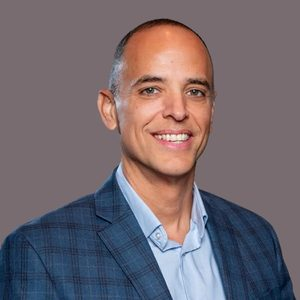
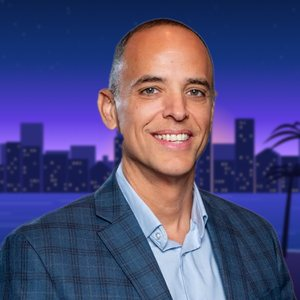
Profile page: wide layout with site header/hero, city-scene portrait, contact cards (preview)
Claude-Session: https://claude.ai/code/session_01VCMpRRY5PuCF4fBCYQtmum

diff --git a/axd-media/assets/css/theme.css b/axd-media/assets/css/theme.css
@@ -1053,129 +1053,90 @@ main.wp-block-group { margin-top: 0 !important; }
 /* Top-level dropdown labels without a link (Solutions, Our Work) */
 .axd-nav .has-child > a.wp-block-navigation-item__content:not([href]) { cursor: default; }
 
-/* Profile card (digital business card) ---------------------------------- */
+/* Profile page (digital business card) -------------------------------- */
 .axd-profile-main { margin: 0; }
-.axd-profile {
-	min-height: 100vh;
-	min-height: 100svh;
-	padding: 120px 16px 32px;
-	background: #081A3B url(../images/ftl-bg.webp) 50% 0 / cover no-repeat fixed;
-	box-sizing: border-box;
-}
-@media (max-width: 900px) {
-	.axd-profile {
-		background: linear-gradient(180deg, rgba(18, 15, 51, 0) 300px, #120F33 360px), url(../images/ftl-bg.webp) 50% 0 / auto 360px no-repeat, #120F33;
-		padding-top: 300px;
-	}
-}
-.axd-profile__card {
-	position: relative;
-	max-width: 460px;
-	margin: 0 auto;
-	padding: 92px 28px 30px;
-	border-radius: 28px;
-	background: rgba(255, 255, 255, .97);
-	box-shadow: 0 40px 80px -30px rgba(8, 26, 59, .65), 0 0 0 1px rgba(255, 255, 255, .6);
-	text-align: center;
-}
-.axd-profile__card > * { margin-block: 0; }
-.axd-profile__photo { position: absolute; left: 50%; top: -76px; transform: translateX(-50%); margin: 0 !important; }
-.axd-profile__photo img {
-	width: 152px;
-	height: 152px;
-	border-radius: 50%;
-	object-fit: cover;
-	border: 5px solid #fff;
-	box-shadow: 0 18px 36px -12px rgba(8, 26, 59, .55), 0 0 0 3px rgba(133, 37, 220, .35);
-}
-.axd-profile__name { font-size: clamp(30px, 8vw, 38px); line-height: 1.1; margin: 0 !important; }
-.axd-profile__org {
-	margin-top: 6px !important;
-	font: 700 17px/1.3 var(--axd-jakarta);
-	background: linear-gradient(90deg, #0A5BEF, #8525DC);
-	-webkit-background-clip: text;
-	background-clip: text;
-	color: transparent;
-}
-.axd-profile__tag { margin-top: 10px !important; font: 700 11px/1.4 var(--axd-jakarta); letter-spacing: .16em; text-transform: uppercase; color: var(--axd-muted); }
-.axd-profile__primary { margin-top: 24px !important; }
-.axd-profile__primary .wp-block-button,
-.axd-profile__primary .wp-block-button__link { width: 100%; justify-content: center; }
+.axd-hero--profile h1 { font-size: clamp(44px, 6vw, 72px); }
+.axd-profile__tag { margin-top: 10px !important; font: 800 13px/1.4 var(--axd-jakarta); letter-spacing: .16em; text-transform: uppercase; color: var(--axd-violet); }
+.axd-hero--profile .axd-lead { max-width: 520px; }
 .axd-profile__save .wp-block-button__link { gap: 10px; }
 .axd-profile__save .wp-block-button__link::before {
 	content: "";
 	width: 20px;
 	height: 20px;
+	flex: none;
 	background: url(../icons/user-plus-white.svg) center / contain no-repeat;
 }
-.axd-profile__quick { margin-top: 12px !important; display: grid !important; grid-template-columns: repeat(3, 1fr); gap: 10px !important; }
-.axd-profile__quick .wp-block-button { width: auto; margin: 0; }
+.axd-hero .axd-profile__quick { margin-top: 14px !important; gap: 10px; }
 .axd-profile__quick .wp-block-button__link {
-	width: 100%;
-	box-sizing: border-box;
-	display: flex;
-	flex-direction: column;
+	display: inline-flex;
 	align-items: center;
-	gap: 6px;
-	padding: 14px 6px;
-	border-radius: 16px;
-	background: var(--axd-off, #F4F7FE);
-	color: var(--axd-ink);
-	font-size: 13px;
-	box-shadow: none;
+	gap: 8px;
+	padding: 10px 16px;
+	border-radius: 999px;
+	background: rgba(255, 255, 255, .75);
 	border: 1px solid var(--axd-line);
+	color: var(--axd-ink);
+	font-size: 14px;
+	box-shadow: none;
 }
 .axd-profile__quick .wp-block-button__link:hover { background: #fff; color: var(--axd-blue); border-color: var(--axd-blue); }
-.axd-profile__quick .wp-block-button__link::before { content: ""; width: 22px; height: 22px; background: center / contain no-repeat; }
+.axd-profile__quick .wp-block-button__link::before { content: ""; width: 18px; height: 18px; flex: none; background: center / contain no-repeat; }
 .axd-profile__quick .is-call .wp-block-button__link::before { background-image: url(../icons/phone-blue.svg); }
 .axd-profile__quick .is-email .wp-block-button__link::before { background-image: url(../icons/mail-blue.svg); }
 .axd-profile__quick .is-web .wp-block-button__link::before { background-image: url(../icons/globe-blue.svg); }
+.axd-hero__img.is-portrait img {
+	width: 100%;
+	max-width: 440px;
+	max-height: none;
+	aspect-ratio: 550 / 580;
+	object-fit: cover;
+	margin-inline: auto;
+	border-radius: 28px;
+	border: 6px solid rgba(255, 255, 255, .85);
+	box-shadow: 0 34px 60px -26px rgba(8, 26, 59, .6);
+	filter: none;
+}
 
-.axd-profile__contacts { margin-top: 24px !important; text-align: left; border-top: 1px solid var(--axd-line); }
+.axd-section.is-tight-pad { padding-block: 56px; }
+.axd-profile__contacts { display: grid; grid-template-columns: repeat(4, minmax(0, 1fr)); gap: 18px; }
 .axd-profile__contacts > * { margin: 0 !important; }
 .axd-pc a {
 	display: grid;
-	grid-template-columns: 40px 1fr;
+	grid-template-columns: 48px minmax(0, 1fr);
 	column-gap: 14px;
 	align-items: center;
-	padding: 14px 4px;
-	border-bottom: 1px solid var(--axd-line);
+	height: 100%;
+	box-sizing: border-box;
+	padding: 20px;
+	border-radius: 20px;
+	background: #fff;
+	border: 1px solid var(--axd-line);
+	box-shadow: var(--axd-shadow);
 	color: var(--axd-ink);
-	font: 700 15px/1.3 var(--axd-jakarta);
+	font: 700 16px/1.3 var(--axd-jakarta);
 	text-decoration: none;
+	overflow-wrap: anywhere;
+	transition: transform .2s ease, border-color .2s ease;
 }
 .axd-pc a::before {
 	content: "";
 	grid-row: span 2;
-	width: 40px;
-	height: 40px;
-	border-radius: 12px;
-	background: #EEF3FF center / 20px no-repeat;
+	width: 48px;
+	height: 48px;
+	border-radius: 14px;
+	background: #EEF3FF center / 22px no-repeat;
 }
 .axd-pc.is-phone a::before { background-image: url(../icons/phone-blue.svg); }
 .axd-pc.is-email a::before { background-image: url(../icons/mail-blue.svg); }
 .axd-pc.is-web a::before { background-image: url(../icons/globe-blue.svg); }
 .axd-pc.is-support a::before { background-color: #F3ECFF; background-image: url(../icons/headset-purple.svg); }
-.axd-pc a:hover { color: var(--axd-blue); }
-.axd-pc__label { display: block; font: 600 11px/1.4 var(--axd-jakarta); letter-spacing: .12em; text-transform: uppercase; color: var(--axd-muted); }
-
-.axd-profile__eyebrow { margin-top: 26px !important; font: 800 12px/1 var(--axd-jakarta); letter-spacing: .16em; text-transform: uppercase; color: var(--axd-violet, #6A2EE8); }
-.axd-profile__services { list-style: none; padding: 0; margin: 14px 0 0 !important; display: flex; flex-wrap: wrap; justify-content: center; gap: 8px; }
-.axd-profile__services li { margin: 0; }
-.axd-profile__services a {
-	display: inline-block;
-	padding: 9px 14px;
-	border-radius: 999px;
-	background: #F4F7FE;
-	border: 1px solid var(--axd-line);
-	color: var(--axd-ink);
-	font: 600 13px/1.2 var(--axd-jakarta);
-	text-decoration: none;
+.axd-pc a:hover { transform: translateY(-3px); border-color: var(--axd-blue); color: var(--axd-blue); }
+.axd-pc__label { display: block; font: 700 11px/1.4 var(--axd-jakarta); letter-spacing: .12em; text-transform: uppercase; color: var(--axd-muted); }
+@media (max-width: 1100px) { .axd-profile__contacts { grid-template-columns: repeat(2, minmax(0, 1fr)); } }
+@media (max-width: 600px) {
+	.axd-profile__contacts { grid-template-columns: 1fr; gap: 12px; }
+	.axd-section.is-tight-pad { padding-block: 36px; }
+	.axd-hero__img.is-portrait img { max-width: 340px; }
+	.axd-hero .axd-profile__quick { display: grid; grid-template-columns: repeat(3, 1fr); }
+	.axd-profile__quick .wp-block-button__link { width: 100%; justify-content: center; padding: 10px 6px; }
 }
-.axd-profile__services a:hover { border-color: var(--axd-blue); color: var(--axd-blue); }
-.axd-profile__cta { margin-top: 24px !important; flex-direction: column; gap: 10px !important; }
-.axd-profile__cta .wp-block-button,
-.axd-profile__cta .wp-block-button__link { width: 100%; justify-content: center; box-sizing: border-box; }
-.axd-profile__foot { margin: 22px 0 0 !important; text-align: center; font: 600 13px/1.4 var(--axd-jakarta); }
-.axd-profile__foot a { color: #fff; text-decoration: none; opacity: .85; }
-.axd-profile__foot a:hover { opacity: 1; }

diff --git a/axd-media/templates/page-profile.html b/axd-media/templates/page-profile.html
@@ -1,3 +1,7 @@
+<!-- wp:template-part {"slug":"header","tagName":"header"} /-->
+
 <!-- wp:group {"tagName":"main","className":"axd-profile-main","layout":{"type":"default"}} -->
 <main class="wp-block-group axd-profile-main"><!-- wp:post-content {"layout":{"type":"default"}} /--></main>
 <!-- /wp:group -->
+
+<!-- wp:template-part {"slug":"footer","tagName":"footer"} /-->

diff --git a/axd-media/patterns/page-profile.php b/axd-media/patterns/page-profile.php
@@ -5,27 +5,26 @@
  * Categories: axd-pages
  * Post Types: page
  * Block Types: core/post-content
- * Viewport Width: 480
- * Description: Digital business card for a team member (use with the Profile Card template).
+ * Viewport Width: 1400
+ * Description: Digital business card page for a team member (use with the Profile Card template).
  *
  * @package AXD_Media
  */
 
 defined( 'ABSPATH' ) || exit;
 
-$axd_ico = static function ( $name, $color = 'blue' ) {
-	return esc_url( get_theme_file_uri( 'assets/icons/' . $name . '-' . $color . '.svg' ) );
-};
-
-$axd_card  = axd_b_img( axd_img( 'profile-alex-dueso.webp' ), 'Alex Dueso', 'axd-profile__photo' );
-$axd_card .= axd_b_h( 1, 'Alex Dueso', 'axd-profile__name' );
-$axd_card .= axd_b_p( 'AXD Media', 'axd-profile__org' );
-$axd_card .= axd_b_p( 'Technology Solutions for Business', 'axd-profile__tag' );
-$axd_card .= axd_b_buttons(
-	array( array( 'Save Contact', '/team/alex-dueso/?vcard=1', 'axd-profile__save' ) ),
-	'axd-profile__primary'
+// Hero: name, contact actions, photo.
+$axd_left  = axd_b_p( 'AXD Media', 'axd-eyebrow is-dark has-rule' );
+$axd_left .= axd_b_h( 1, 'Alex <span class="axd-grad">Dueso.</span>' );
+$axd_left .= axd_b_p( 'Technology Solutions for Business', 'axd-profile__tag' );
+$axd_left .= axd_b_p( 'Custom solutions, data insights, modern websites, and reliable IT support to help your organization work smarter, serve better, and grow with confidence.', 'axd-lead' );
+$axd_left .= axd_b_buttons(
+	array(
+		array( 'Save Contact', '/team/alex-dueso/?vcard=1', 'axd-profile__save' ),
+		array( 'Schedule a Consultation', '/contact/', 'is-style-outline' ),
+	)
 );
-$axd_card .= axd_b_buttons(
+$axd_left .= axd_b_buttons(
 	array(
 		array( 'Call', 'tel:+13059293239', 'is-call' ),
 		array( 'Email', 'mailto:info@axdmedia.com', 'is-email' ),
@@ -33,32 +32,34 @@ $axd_card .= axd_b_buttons(
 	),
 	'axd-profile__quick'
 );
+$axd_right = axd_b_img( axd_img( 'profile-alex-dueso.webp' ), 'Alex Dueso', 'axd-hero__img is-portrait' );
+echo axd_b_group( axd_b_group( axd_b_cols( array( $axd_left, $axd_right ) ), 'axd-hero axd-hero--profile', 'div', 'constrained' ), 'axd-hero-shell' ); // phpcs:ignore WordPress.Security.EscapeOutput.OutputNotEscaped
 
+// Contact cards.
 $axd_rows  = axd_b_p( '<a href="tel:+13059293239"><span class="axd-pc__label">Phone</span>(305) 929-3239</a>', 'axd-pc is-phone' );
 $axd_rows .= axd_b_p( '<a href="mailto:info@axdmedia.com"><span class="axd-pc__label">Email</span>info@axdmedia.com</a>', 'axd-pc is-email' );
 $axd_rows .= axd_b_p( '<a href="https://axdmedia.com/"><span class="axd-pc__label">Website</span>axdmedia.com</a>', 'axd-pc is-web' );
 $axd_rows .= axd_b_p( '<a href="/support/"><span class="axd-pc__label">Client Support</span>Open a support case</a>', 'axd-pc is-support' );
-$axd_card .= axd_b_group( $axd_rows, 'axd-profile__contacts' );
+echo axd_s_section( axd_b_group( $axd_rows, 'axd-profile__contacts' ), 'is-tight-pad' ); // phpcs:ignore WordPress.Security.EscapeOutput.OutputNotEscaped
 
-$axd_card .= axd_b_p( 'How I Can Help', 'axd-profile__eyebrow' );
-$axd_card .= axd_b_list(
-	array(
-		'<a href="/data-analytics-dashboards/">Data Analytics &amp; Dashboards</a>',
-		'<a href="/custom-applications-ai/">Custom Applications &amp; AI</a>',
-		'<a href="/website-development/">Website Development</a>',
-		'<a href="/it-support-consulting/">IT Support &amp; Consulting</a>',
-	),
-	'axd-profile__services'
+// How I can help: same solution cards as the home page.
+$axd_cards = array(
+	array( 'card-da.webp', 'Data Analytics &amp; Dashboards', 'Turn your data into clear, actionable insights.', '/data-analytics-dashboards/' ),
+	array( 'card-apps.webp', 'Custom Applications &amp; AI', 'Build secure, effective tools that automate work and improve results.', '/custom-applications-ai/' ),
+	array( 'card-web.webp', 'Website Development', 'Modern, responsive websites that engage and inform.', '/website-development/' ),
+	array( 'card-it.webp', 'IT Support &amp; Consulting', 'Reliable IT support and strategic guidance to keep you running smoothly.', '/it-support-consulting/' ),
 );
-$axd_card .= axd_b_buttons(
-	array(
-		array( 'Schedule a Consultation', '/contact/', 'has-arrow' ),
-		array( 'Open Support Case', '/support/', 'is-style-outline' ),
-	),
-	'axd-profile__cta'
+$axd_grid = '';
+foreach ( $axd_cards as $axd_c ) {
+	$axd_body  = axd_b_h( 3, '<a href="' . esc_url( $axd_c[3] ) . '">' . $axd_c[1] . '</a>' );
+	$axd_body .= axd_b_p( esc_html( $axd_c[2] ) );
+	$axd_body .= axd_b_p( '', 'axd-go' );
+	$axd_card  = axd_b_img( axd_img( $axd_c[0] ), '', 'axd-card__img' );
+	$axd_card .= axd_b_group( $axd_body, 'axd-card__body' );
+	$axd_grid .= axd_b_group( $axd_card, 'axd-card' );
+}
+echo axd_s_section( // phpcs:ignore WordPress.Security.EscapeOutput.OutputNotEscaped
+	axd_s_head( 'How I Can Help', 'Technology That Works <span class="axd-grad">for You</span>' )
+	. axd_b_group( $axd_grid, 'axd-grid-4' ),
+	'is-alt'
 );
-
-$axd_out  = axd_b_group( $axd_card, 'axd-profile__card' );
-$axd_out .= axd_b_p( '<a href="https://axdmedia.com/">axdmedia.com</a>', 'axd-profile__foot' );
-
-echo axd_b_group( $axd_out, 'axd-profile' ); // phpcs:ignore WordPress.Security.EscapeOutput.OutputNotEscaped
